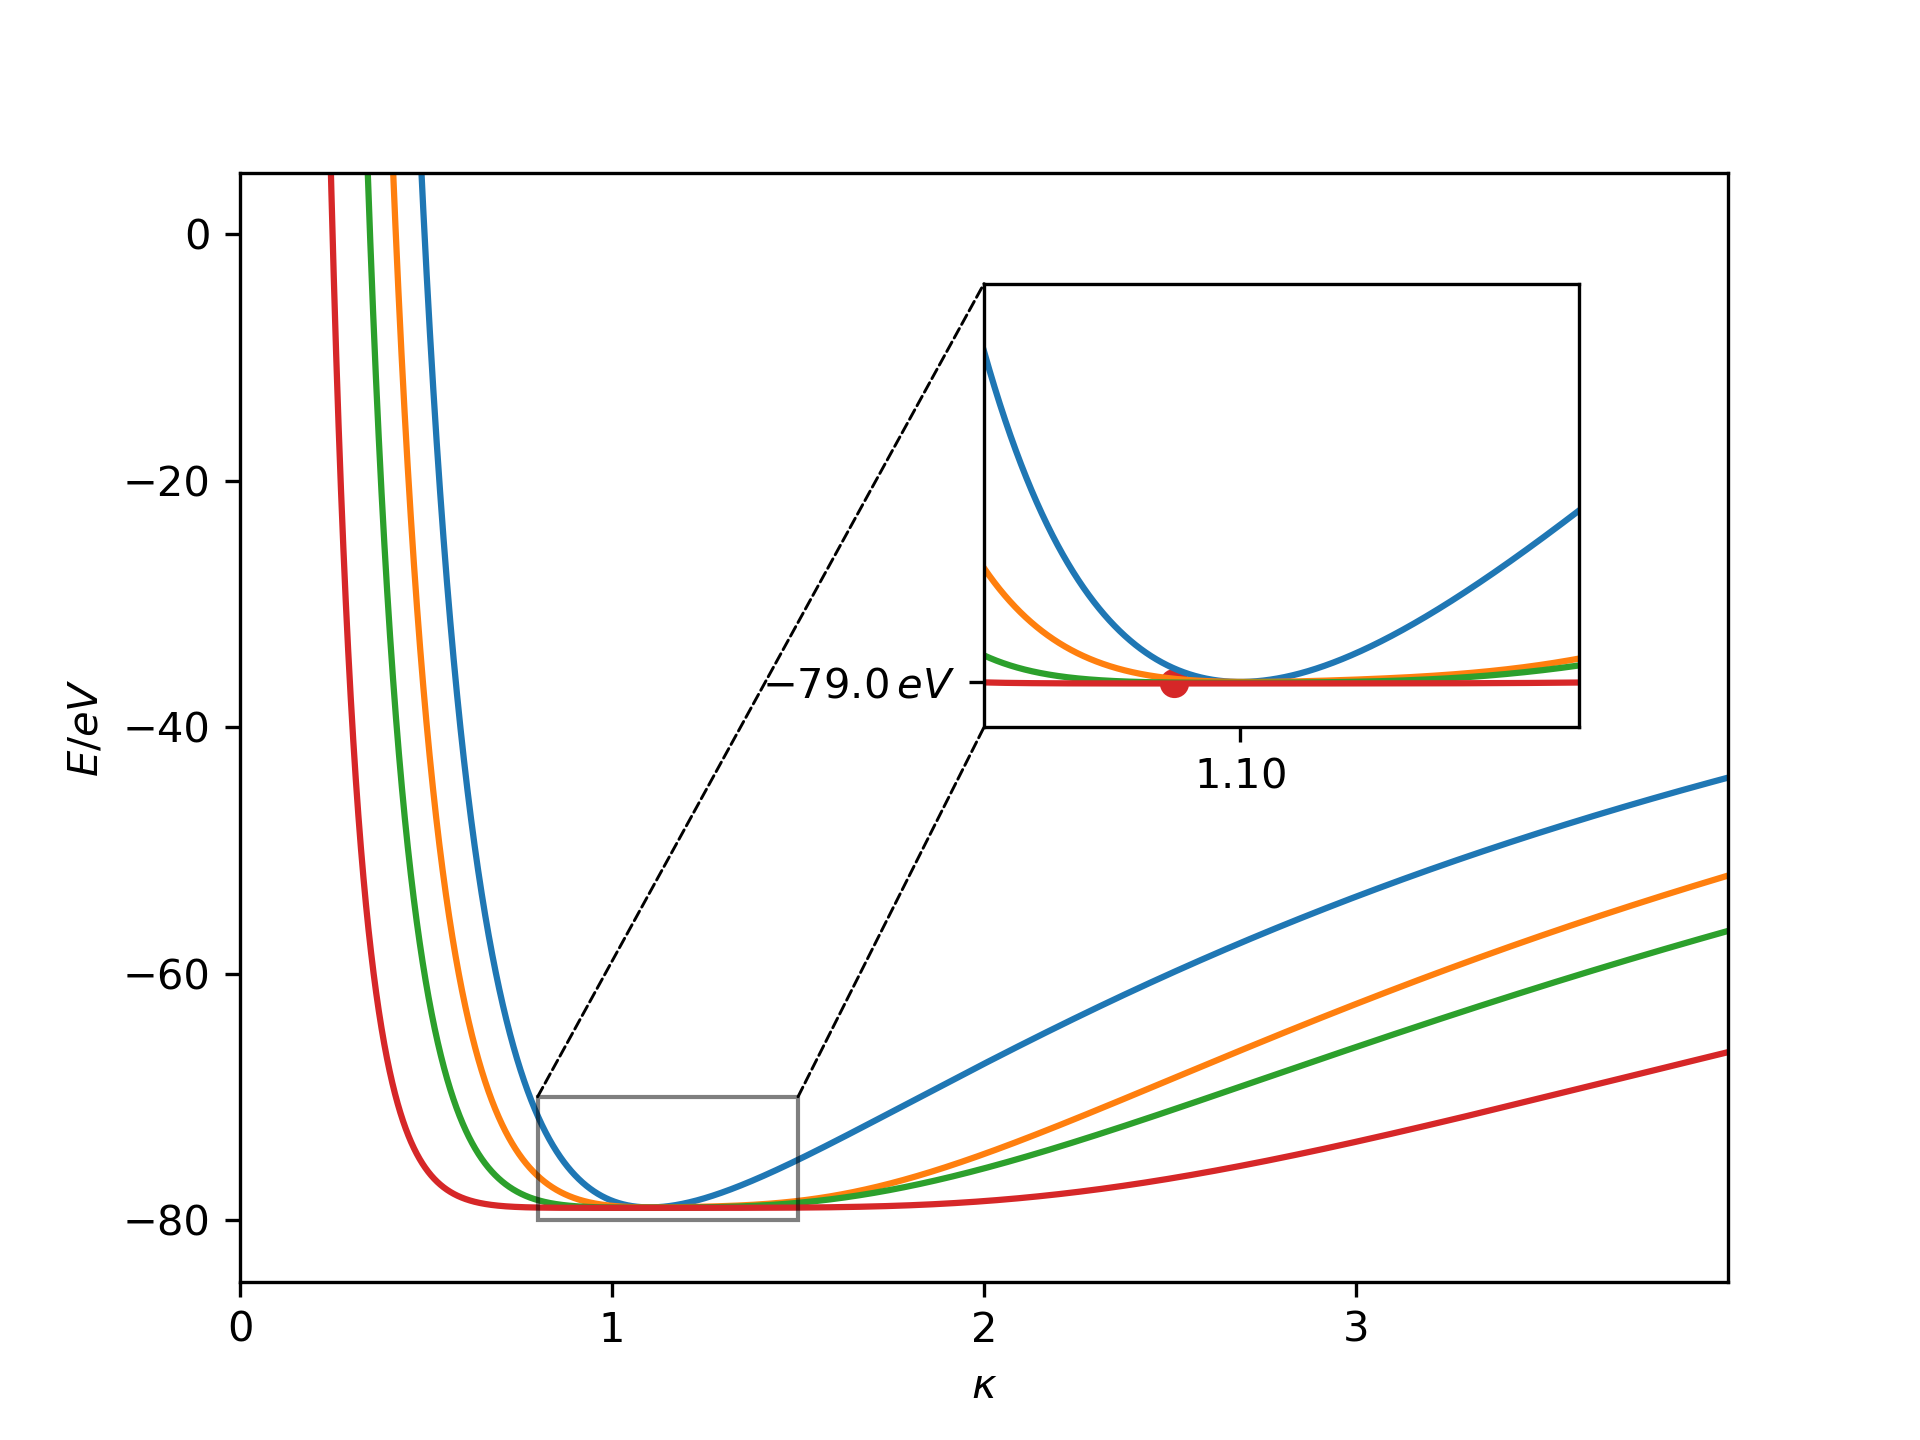
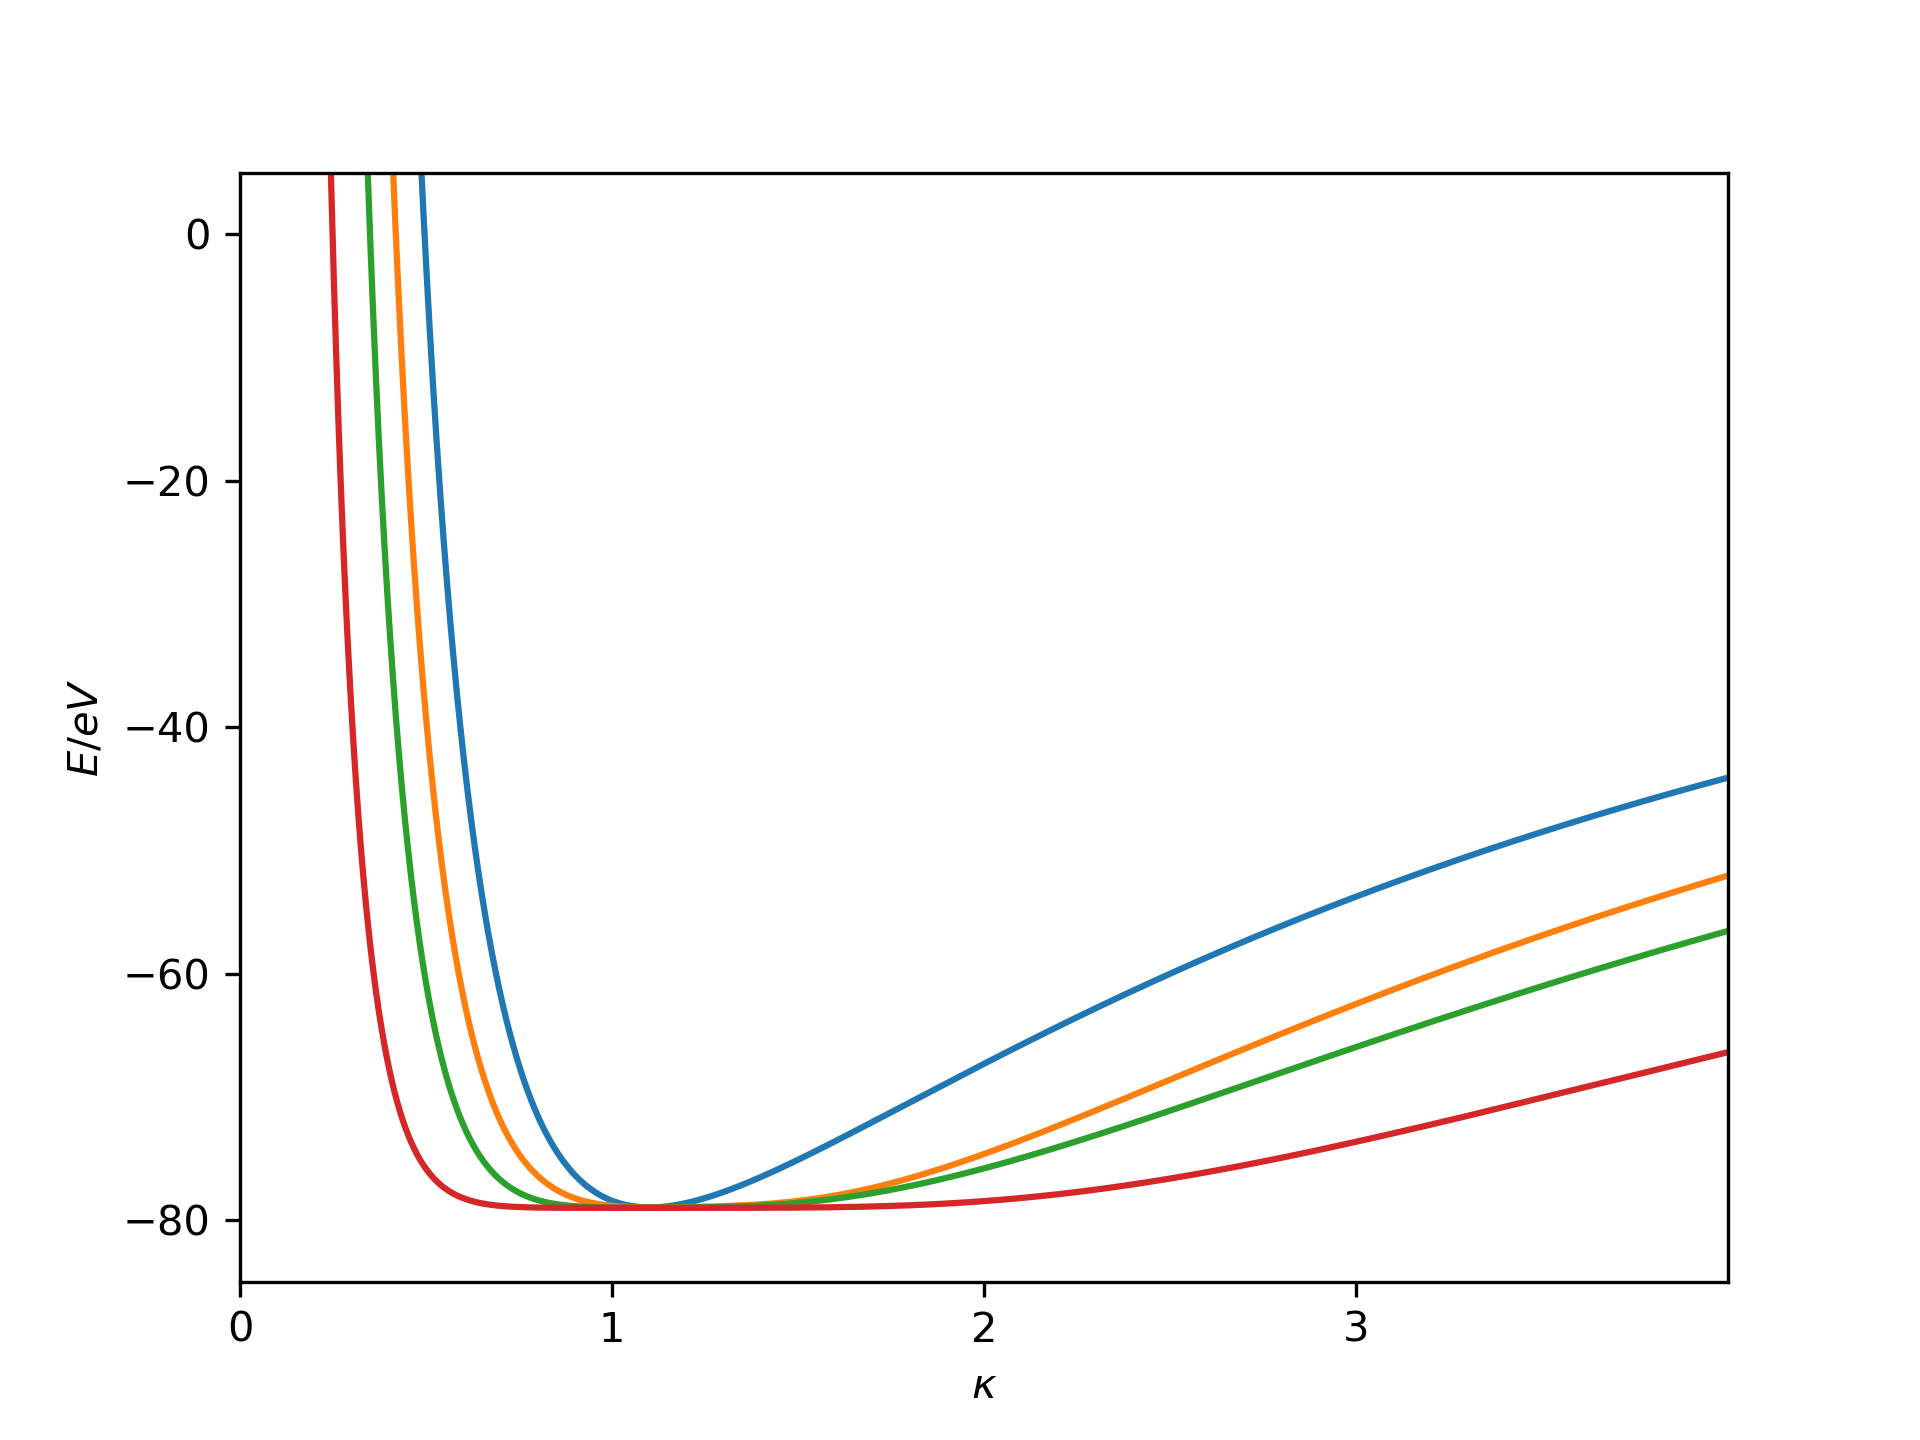
Added comments

diff --git a/main.py b/main.py
@@ -1,21 +1,32 @@
 from header import *
 
 
+#plot the variation of E for kappa and the hylleraas' original 3 basis functions
 
-x1, x2, y1, y2 = 0.8, 1.5, -80, -70 
-subkappas=np.linspace(0.8,1.5,10000)
+#jkms for the basis functions
 jkms=[[0,0,0],[0,0,1],[0,2,0]]
 
+#coords for the zoomed in section of the graph
+x1, x2, y1, y2 = 0.8, 1.5, -80, -70 
+
+#kappas for the zoomed in sectino of the graph
+subkappas=np.linspace(0.8,1.5,10000)
+
+#find the energy eigen values for the zoomend in section
 subE=find_E(subkappas,jkms)
 
+#kappas for the main graph
 kappas=np.linspace(0.5,20,10000)
 
+#energy eigen values for the main graph
 E=find_E(kappas,jkms)
 
 #find optimal k
+#quick and dirty since this is just for displauing
 kappas_order=np.argsort(subE[:,0])
 optimal_kappa=subkappas[kappas_order[0]]
 optimal_energy_eigenvalues=subE[kappas_order[0]]
+
 #plt.plot([optimal_kappa,optimal_kappa],[-100,150],'--')
 
 #plt.scatter(kappas,sorted_test_energy_eigenvalues[:,1])
@@ -24,30 +35,10 @@ optimal_energy_eigenvalues=subE[kappas_order[0]]
 print("Optimal value for kappa:",optimal_kappa)
 print("Coresponing energy eigenvalues:",optimal_energy_eigenvalues)
 
-def phi(jkl,kappa,r1,r2):
-	r1_norm=np.linalg.norm(r1,axis=-1)
-	r2_norm=np.linalg.norm(r2,axis=-1)
-	r12_norm=np.linalg.norm(r2-r1,axis=-1)
-	return (
-		(r1_norm+r2_norm)**jkl[0]
-		*(r1_norm+r2_norm)**jkl[1]
-		*(r12_norm)**jkl[2]
-		*np.exp((-Z/(kappa*r0))*(r1_norm+r2_norm))
-		)
-
-
-
-
-
+#plot the graph
 fig, ax = plt.subplots()
 
-ax.set_yticks([0,-20,-40,-60,-80])
-ax.set_xticks([0,5,10,15,20])
-
-ax.plot(kappas,E[:,0])
-
-# inset Axes....
- # subregion of the original image
+#for the zoomed in part
 axins = ax.inset_axes(
     [0.5, 0.1, 0.4, 0.4],
     xlim=(x1, x2), ylim=(y1, y2), xticks=[optimal_kappa], yticks=[optimal_energy_eigenvalues[0]])
@@ -58,16 +49,20 @@ axins.scatter([optimal_kappa],[optimal_energy_eigenvalues[0]],marker='o')
 axins.plot([0,optimal_kappa],[optimal_energy_eigenvalues[0],optimal_energy_eigenvalues[0]],color='C0',linestyle='--')
 axins.plot([optimal_kappa,optimal_kappa],[-80,optimal_energy_eigenvalues[0]],color='C0',linestyle='--')
 
+#for the main part of the graph
+ax.set_yticks([0,-20,-40,-60,-80])
+ax.set_xticks([0,5,10,15,20])
+ax.plot(kappas,E[:,0])
 ax.indicate_inset((x1,y1,x2-x1,y2-y1), edgecolor="black")
 ax.add_patch(ConnectionPatch(xyA=(x2, y1), xyB=(0, 0), axesA=ax, axesB=axins, coordsA="data", coordsB="axes fraction", lw=0.7,ls="--"))
 ax.add_patch(ConnectionPatch(xyA=(x2, y2), xyB=(0, 1), axesA=ax, axesB=axins, coordsA="data", coordsB="axes fraction", lw=0.7,ls="--"))
-
-
 ax.set_xlabel("$\kappa$")
 ax.set_ylabel("$E/eV$")
 
 plt.savefig("variation.png",dpi=300)
 
+
+#plot the variation for increasing bases to show convergence
 
 #the ijm value associated with each n value
 crd=3 #cube root dim
@@ -78,23 +73,24 @@ for j in range(crd):
 		for m in range(crd):
 			jkms[(crd**2)*j+crd*k+m]=[j,2*k,m]
 
-#print(jkms)
 
+#order the jkm values in so that we can select different basis
 tempf=np.linalg.norm(jkms*[1,0.5,1],axis=-1)
-#print(tempf)
 jkms_order=np.argsort(tempf)
-#print(jkms_order)
 jkms=jkms[jkms_order]
-#print(jkms)
 
+#input kappas
 kappas=np.linspace(0.2,4,10000)
+
+#the jkm values ascociated with each basis
 jkmss=[[[0,0,0],[0,0,1],[0,2,0]],jkms[:4],jkms[:9],jkms[:81]]
 
+#the enrgy eigen values asociated with each basis and each kappa
 Es=np.zeros((4,kappas.size))
 for r in range(4):
 	Es[r]=find_E(kappas,jkmss[r])[:,0]
 
-	
+#plot the graph
 fig, ax = plt.subplots()
 
 ax.set_ylim((-85,5))
@@ -109,31 +105,32 @@ ax.set_xticks([0,1,2,3])
 ax.set_xlabel("$\kappa$")
 ax.set_ylabel("$E/eV$")
 
-axins = ax.inset_axes(
-    [0.5, 0.5, 0.4, 0.4],
-    xlim=(x1, x2), ylim=(y1, y2), xticks=[optimal_kappa], yticks=[optimal_energy_eigenvalues[0]])
-axins.set_yticklabels(["$-79.0\,eV$"])
-axins.set_xticklabels(["$1.10$"])
+
+# axins = ax.inset_axes(
+#     [0.5, 0.5, 0.4, 0.4],
+#     xlim=(x1, x2), ylim=(y1, y2), xticks=[optimal_kappa], yticks=[optimal_energy_eigenvalues[0]])
+# axins.set_yticklabels(["$-79.0\,eV$"])
+# axins.set_xticklabels(["$1.10$"])
 
 subEs=np.zeros((4,subkappas.size))
 for r in range(4):
 	subEs[r]=find_E(subkappas,jkmss[r])[:,0]
 
-for r in range(4):
-	axins.plot(subkappas,subEs[r])
+# for r in range(4):
+# 	axins.plot(subkappas,subEs[r])
 #axins.scatter([optimal_kappa],[optimal_energy_eigenvalues[0]],marker='o')
 #axins.plot([0,optimal_kappa],[optimal_energy_eigenvalues[0],optimal_energy_eigenvalues[0]],color='C0',linestyle='--')
 #axins.plot([optimal_kappa,optimal_kappa],[-80,optimal_energy_eigenvalues[0]],color='C0',linestyle='--')
 
 
-
+#find estimate for optimal kappa
 kappas_order=np.argsort(subEs[-1])
 optimal_kappa=subkappas[kappas_order[0]]
 optimal_energy_eigenvalues=subEs[-1,kappas_order[0]]
 
 best_kappa=binary_search(lambda val:find_E(val,jkmss[-1])[0,0])
 
-axins.scatter(best_kappa[0],best_kappa[1],marker='o',color='C3')
+#axins.scatter(best_kappa[0],best_kappa[1],marker='o',color='C3')
 #axins.plot([0,optimal_kappa],[optimal_energy_eigenvalues,optimal_energy_eigenvalues],color='C0',linestyle='--')
 #axins.plot([optimal_kappa,optimal_kappa],[-80,optimal_energy_eigenvalues],color='C0',linestyle='--')
 
@@ -142,9 +139,9 @@ print("Coresponing energy eigenvalues:",optimal_energy_eigenvalues)
 
 print("best_kappa",best_kappa)
 
-ax.indicate_inset((x1,y1,x2-x1,y2-y1), edgecolor="black")
-ax.add_patch(ConnectionPatch(xyA=(x1, y2), xyB=(0, 1), axesA=ax, axesB=axins, coordsA="data", coordsB="axes fraction", lw=0.7,ls="--"))
-ax.add_patch(ConnectionPatch(xyA=(x2, y2), xyB=(0, 0), axesA=ax, axesB=axins, coordsA="data", coordsB="axes fraction", lw=0.7,ls="--"))
+#ax.indicate_inset((x1,y1,x2-x1,y2-y1), edgecolor="black")
+#ax.add_patch(ConnectionPatch(xyA=(x1, y2), xyB=(0, 1), axesA=ax, axesB=axins, coordsA="data", coordsB="axes fraction", lw=0.7,ls="--"))
+#ax.add_patch(ConnectionPatch(xyA=(x2, y2), xyB=(0, 0), axesA=ax, axesB=axins, coordsA="data", coordsB="axes fraction", lw=0.7,ls="--"))
 
 
 

diff --git a/header.py b/header.py
@@ -3,21 +3,26 @@ import math
 import matplotlib.pyplot as plt
 from matplotlib.patches import ConnectionPatch
 import scipy.constants as cnst
+
 # --- constants ---
+#in units of angstroms and electron volts, where the prefactor 1/(4 pi epsilon0) has been absorbed into the definition of electric charge
+
 #elementry charge squared
 e2=(cnst.e**2/(4*np.pi*cnst.epsilon_0))/(cnst.eV*cnst.angstrom)
+
 #bohr radius
 r0=(4*np.pi*cnst.epsilon_0*cnst.hbar**2)/(cnst.angstrom*cnst.m_e*cnst.e**2)
+
 #charge on the nuclius is emelentry charge units
 Z=2
+
 #reduced plancs constant
 hbar=cnst.hbar/cnst.eV
+
 #mass of electorn
 me=cnst.m_e*cnst.angstrom**2/cnst.eV
 
-#the dimension of the vector space created by the phi_n vectors
-
-#generator function of element of N given JKM
+#generator function of elements of N for hylleraas' basis states given J K M and one over two lambda or 'ootl'
 def fN(J,K,M,ootl):
 	if M==-2:
 		return 0
@@ -32,7 +37,7 @@ def fN(J,K,M,ootl):
 	else:
 		return 0
 
-#same for C
+#generator function of elements of C for hylleraas' basis states given J K M and one over two lambda or 'ootl'
 def fC(J, K, M, ootl):
 	if M==-2:
 		return 0
@@ -47,7 +52,7 @@ def fC(J, K, M, ootl):
 	else:
 		return 0
 
-#same for T
+#generator function of elements of T for hylleraas' basis states given J K M and one over two lambda or 'ootl'
 def fT(j,j_prime,k,k_prime,m,m_prime,J,K,M,l,ootl):
 	return (
 		(hbar**2)/(2*me) * ( 
@@ -66,14 +71,16 @@ def fT(j,j_prime,k,k_prime,m,m_prime,J,K,M,l,ootl):
 		)
 	)
 
+#finds energy egien values (and their corosponding eigen vectors in the projected hilber space if return_as=True) given a kapp and a let of the combitnations of jkm
 def find_E(kappas,jkms,return_as=False):
 
+	#the dimension of the sub space
 	dim=np.shape(jkms)[0]
 
-	#the N matrix
+	#the N matrix defined as N_nn'=<psi_n|psi_n'>
 	N=np.zeros((dim,dim,np.size(kappas)))
 
-	#the H_tilde matrix
+	#the H_tilde matrix defined as H_nn'=<>
 	H_tilde=np.zeros((dim,dim,np.size(kappas)))
 
 	#lambda
@@ -83,7 +90,7 @@ def find_E(kappas,jkms,return_as=False):
 	ootl=kappas*r0/(2*Z)
 
 	
-	#calculating elements
+	#calculating elements of the N and H_tilde matrices
 	for n in range(dim):
 		for n_prime in range(dim):
 			j,k,m=jkms[n]
@@ -99,7 +106,7 @@ def find_E(kappas,jkms,return_as=False):
 			H_tilde[n,n_prime]=-Z*e2*fC(J,K,M, ootl)+e2*fN(J,K,M-1, ootl)+fT(j,j_prime,k,k_prime,m,m_prime,J,K,M, l,ootl)
 			#print(fT(j,j_prime,k,k_prime,m,m_prime,J,K,M,l,ootl))
 
-	#changing the N and H_tilde form matrices with lists as element to lists of matrices
+	#changing the N and H_tilde form matrices with lists as element to lists of matrices so that we can use broadcasting of matrix fucntions
 	N=np.transpose(N)
 	H_tilde=np.transpose(H_tilde)
 
@@ -119,7 +126,7 @@ def find_E(kappas,jkms,return_as=False):
 	Y=N_eigenvectors
 	Y_T=np.transpose(Y,axes=[0,2,1])
 
-	#P	
+	#construct the P matrix
 	P=invs_sqrt_beta@Y_T@H_tilde@Y@invs_sqrt_beta
 
 	#get energy eigen values from Ps
@@ -132,7 +139,7 @@ def find_E(kappas,jkms,return_as=False):
 	for i in range(np.size(kappas)):
 		sorted_energy_eigenvalues[i]=energy_eigenvalues[i,order[i]]
 	
-
+	#return the aplitudes if return_as==true else just return the energy eigen values
 	if return_as==False:
 		return sorted_energy_eigenvalues
 	
@@ -142,22 +149,40 @@ def find_E(kappas,jkms,return_as=False):
 			sorted_As[i]=As[i,order[i]]
 		return sorted_energy_eigenvalues,sorted_As
 
+#use binary search like algorythem to find the optimal kappa
+#we can do this because we know the funciton has a single global minimum and is smooth
 def binary_search(f):
+
+	#staring information
+	#the minimum must be between furthest left and furthest right
 	current_best=np.array([1,f(1)])
 	furthest_left=np.array([0.8,f(0.1)])
 	furthest_right=np.array([1.2,f(2)])
+
+	#the uncertanty on kappa, at which the program will stop
 	min_error=0.00001
+
+	#whist we havent yet satisfied our minimum error
 	while (np.abs(furthest_right[0]-furthest_left[0])>min_error):
+
+		#find the value in between our furthest left and best guess
+		#then by coparing it with the values we already know we can find a tighter constraint on kappa
+		#ie a better furthest left/furthest right/best guess
+
 		value_to_decide=(current_best+furthest_left)/2
 		value_to_decide[1]=f(value_to_decide[0])
 
+		#if it is a new minumum use it has the current best and the current best is the new furthest right
 		if value_to_decide[1]<current_best[1]:
 			furthest_right=current_best
 			current_best=value_to_decide
 
+		#if it isint a new minmum then the minmum cant be to the left of it so we can set it to the new furthest left
 		elif value_to_decide[1]>=current_best[1]:
 			furthest_left=value_to_decide
 
+
+		# now we can do the same for the furthest right
 		value_to_decide=(current_best+furthest_right)/2
 		value_to_decide[1]=f(value_to_decide[0])
 
@@ -170,3 +195,15 @@ def binary_search(f):
 
 		print(current_best)
 	return current_best
+
+#these are the basis funcitons but their not actually being used for anything atm
+def phi(jkl,kappa,r1,r2):
+	r1_norm=np.linalg.norm(r1,axis=-1)
+	r2_norm=np.linalg.norm(r2,axis=-1)
+	r12_norm=np.linalg.norm(r2-r1,axis=-1)
+	return (
+		(r1_norm+r2_norm)**jkl[0]
+		*(r1_norm+r2_norm)**jkl[1]
+		*(r12_norm)**jkl[2]
+		*np.exp((-Z/(kappa*r0))*(r1_norm+r2_norm))
+		)

diff --git a/find_E_0.py b/find_E_0.py
@@ -1,0 +1,21 @@
+from header import *
+
+#finds optimal kappa and calculates the error from experimental the experimental value
+
+#generates all the jkm values used for the basis vectors
+crd=3 #cube root dim
+pjkmv=np.arange(0,crd) # posible jkm values
+jkms=np.zeros((crd**3,3),dtype=int)
+for j in range(crd):
+	for k in range(crd):
+		for m in range(crd):
+			jkms[(crd**2)*j+crd*k+m]=[j,2*k,m]
+
+#finds the best value of kappa for the given jkm values
+best=binary_search(lambda val:find_E(val,jkms)[0,0])
+
+#prints out optimal E
+print("best estemate of the energy eigen value is:",best[1],"eV")
+
+#prints out the relative error
+print("which has a relative error compared to experimental values of",np.abs((best[1]+79.005168)/79.005168))
